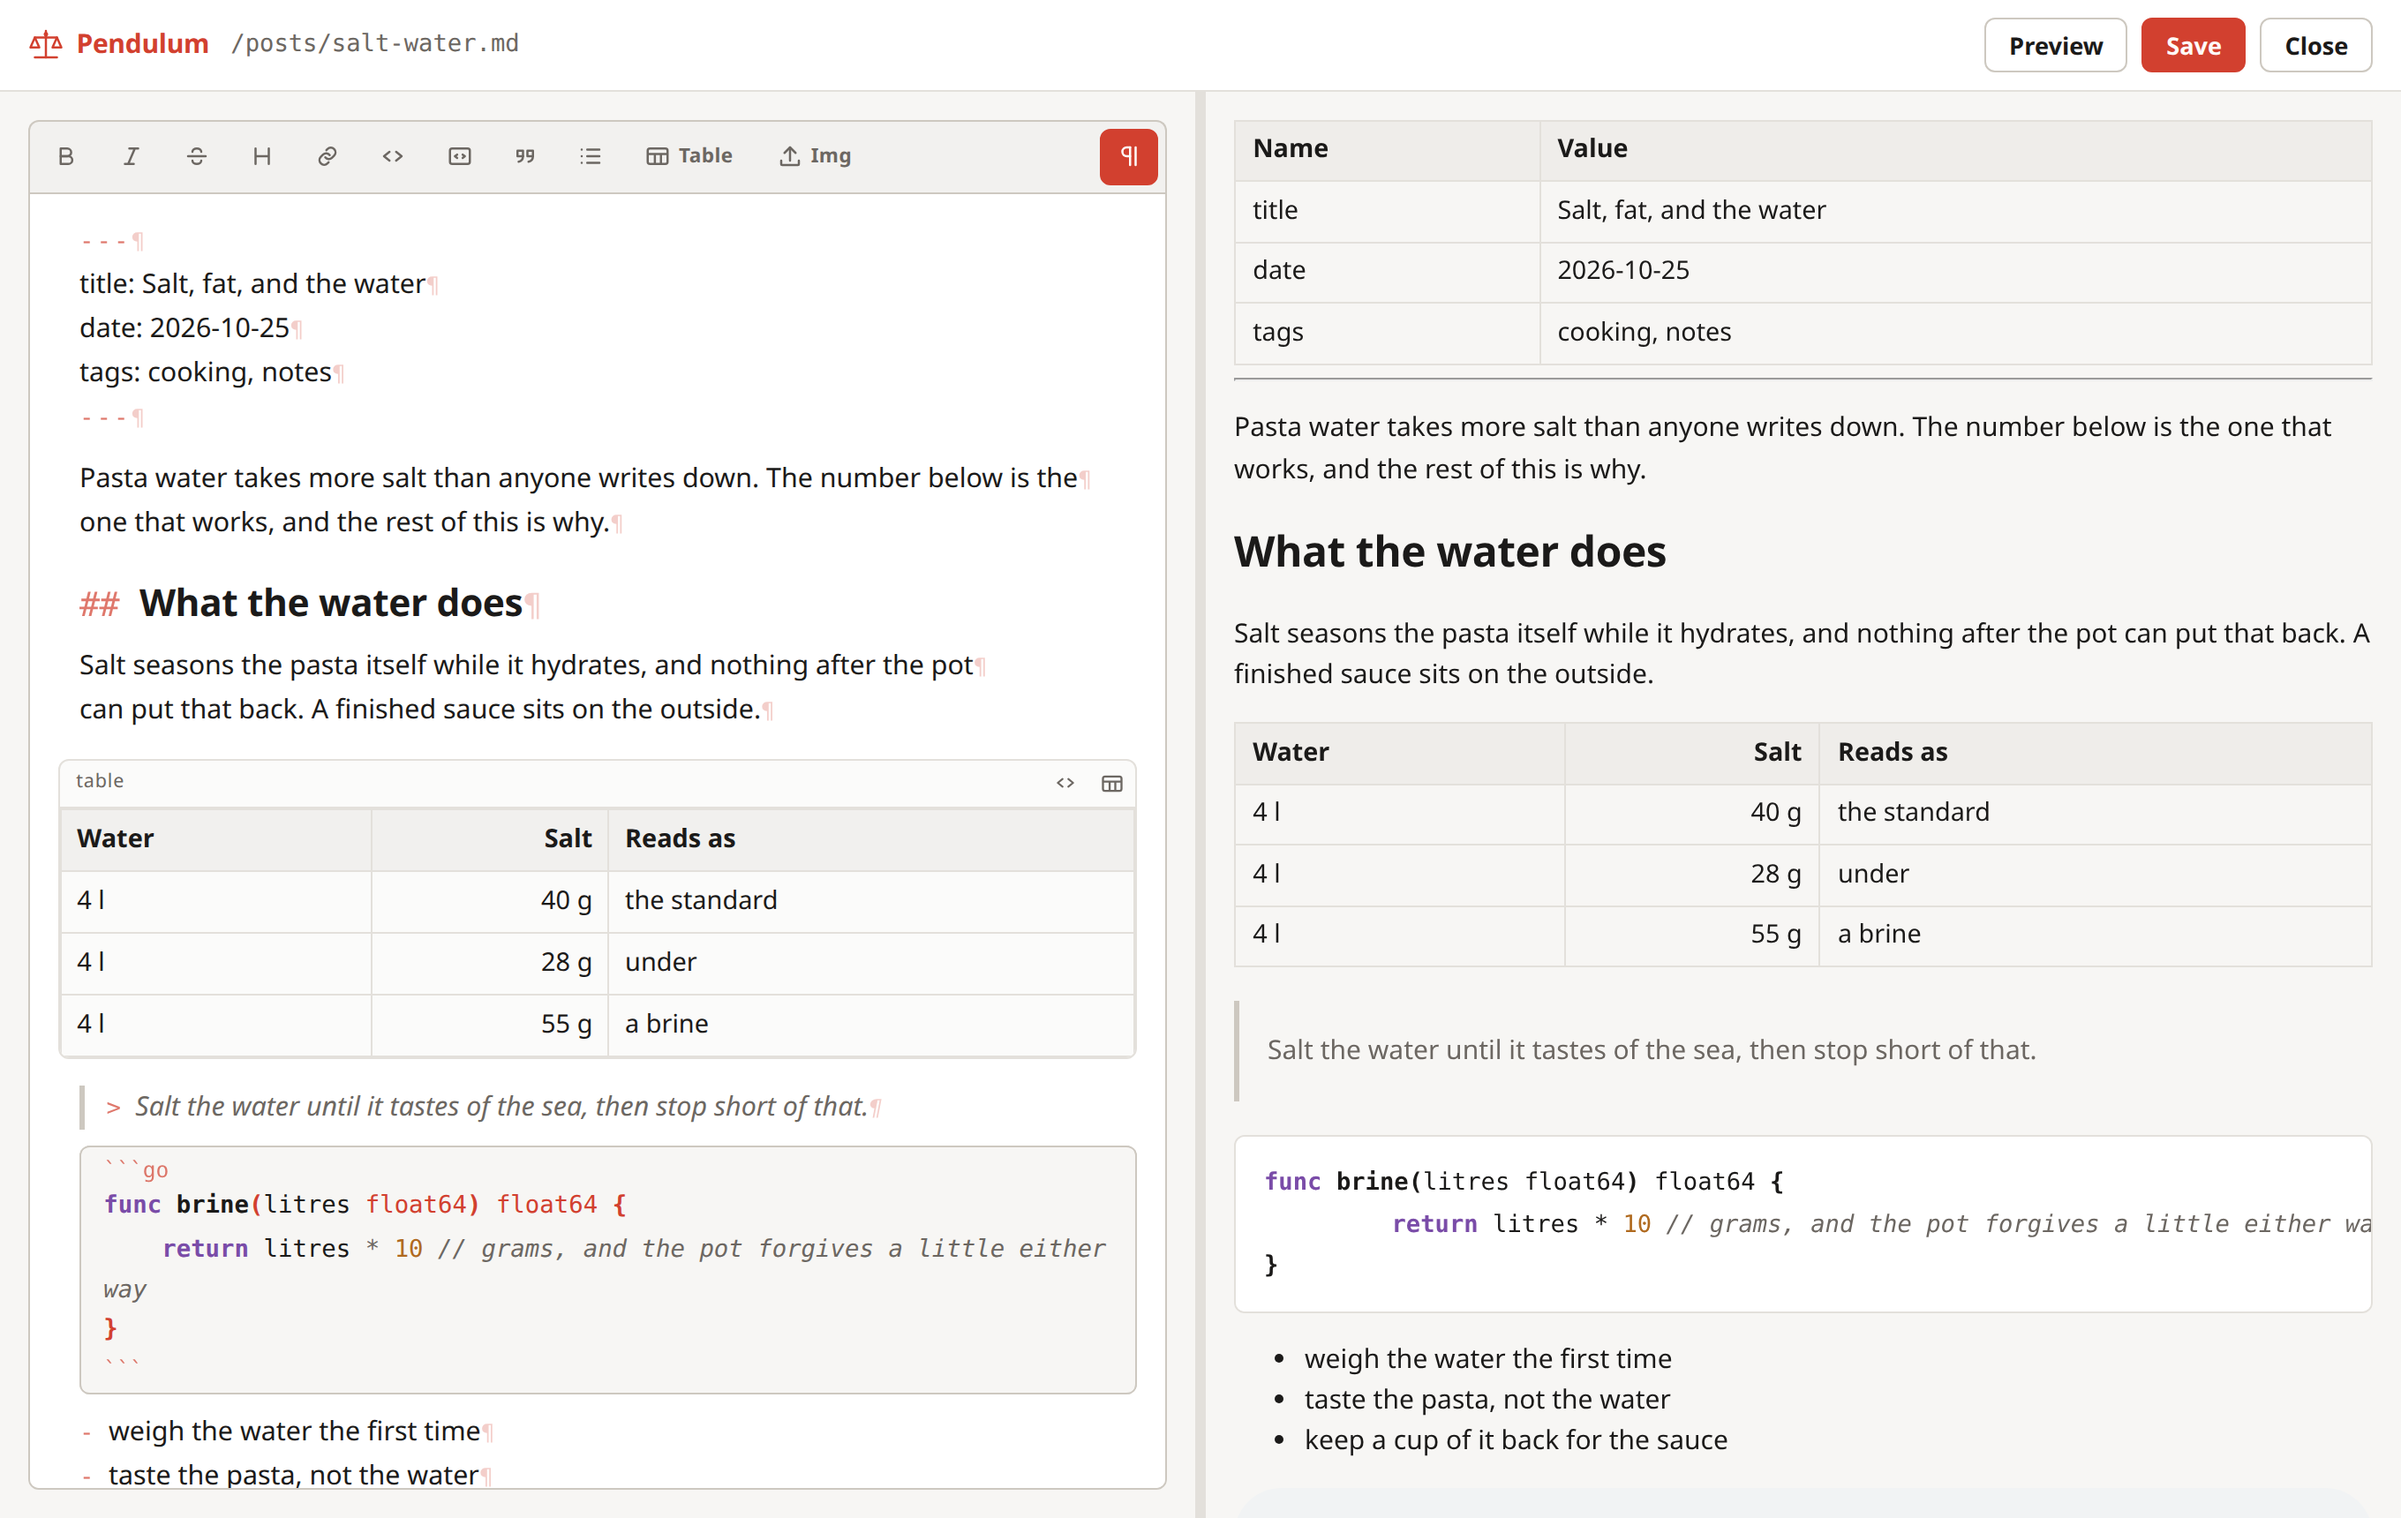
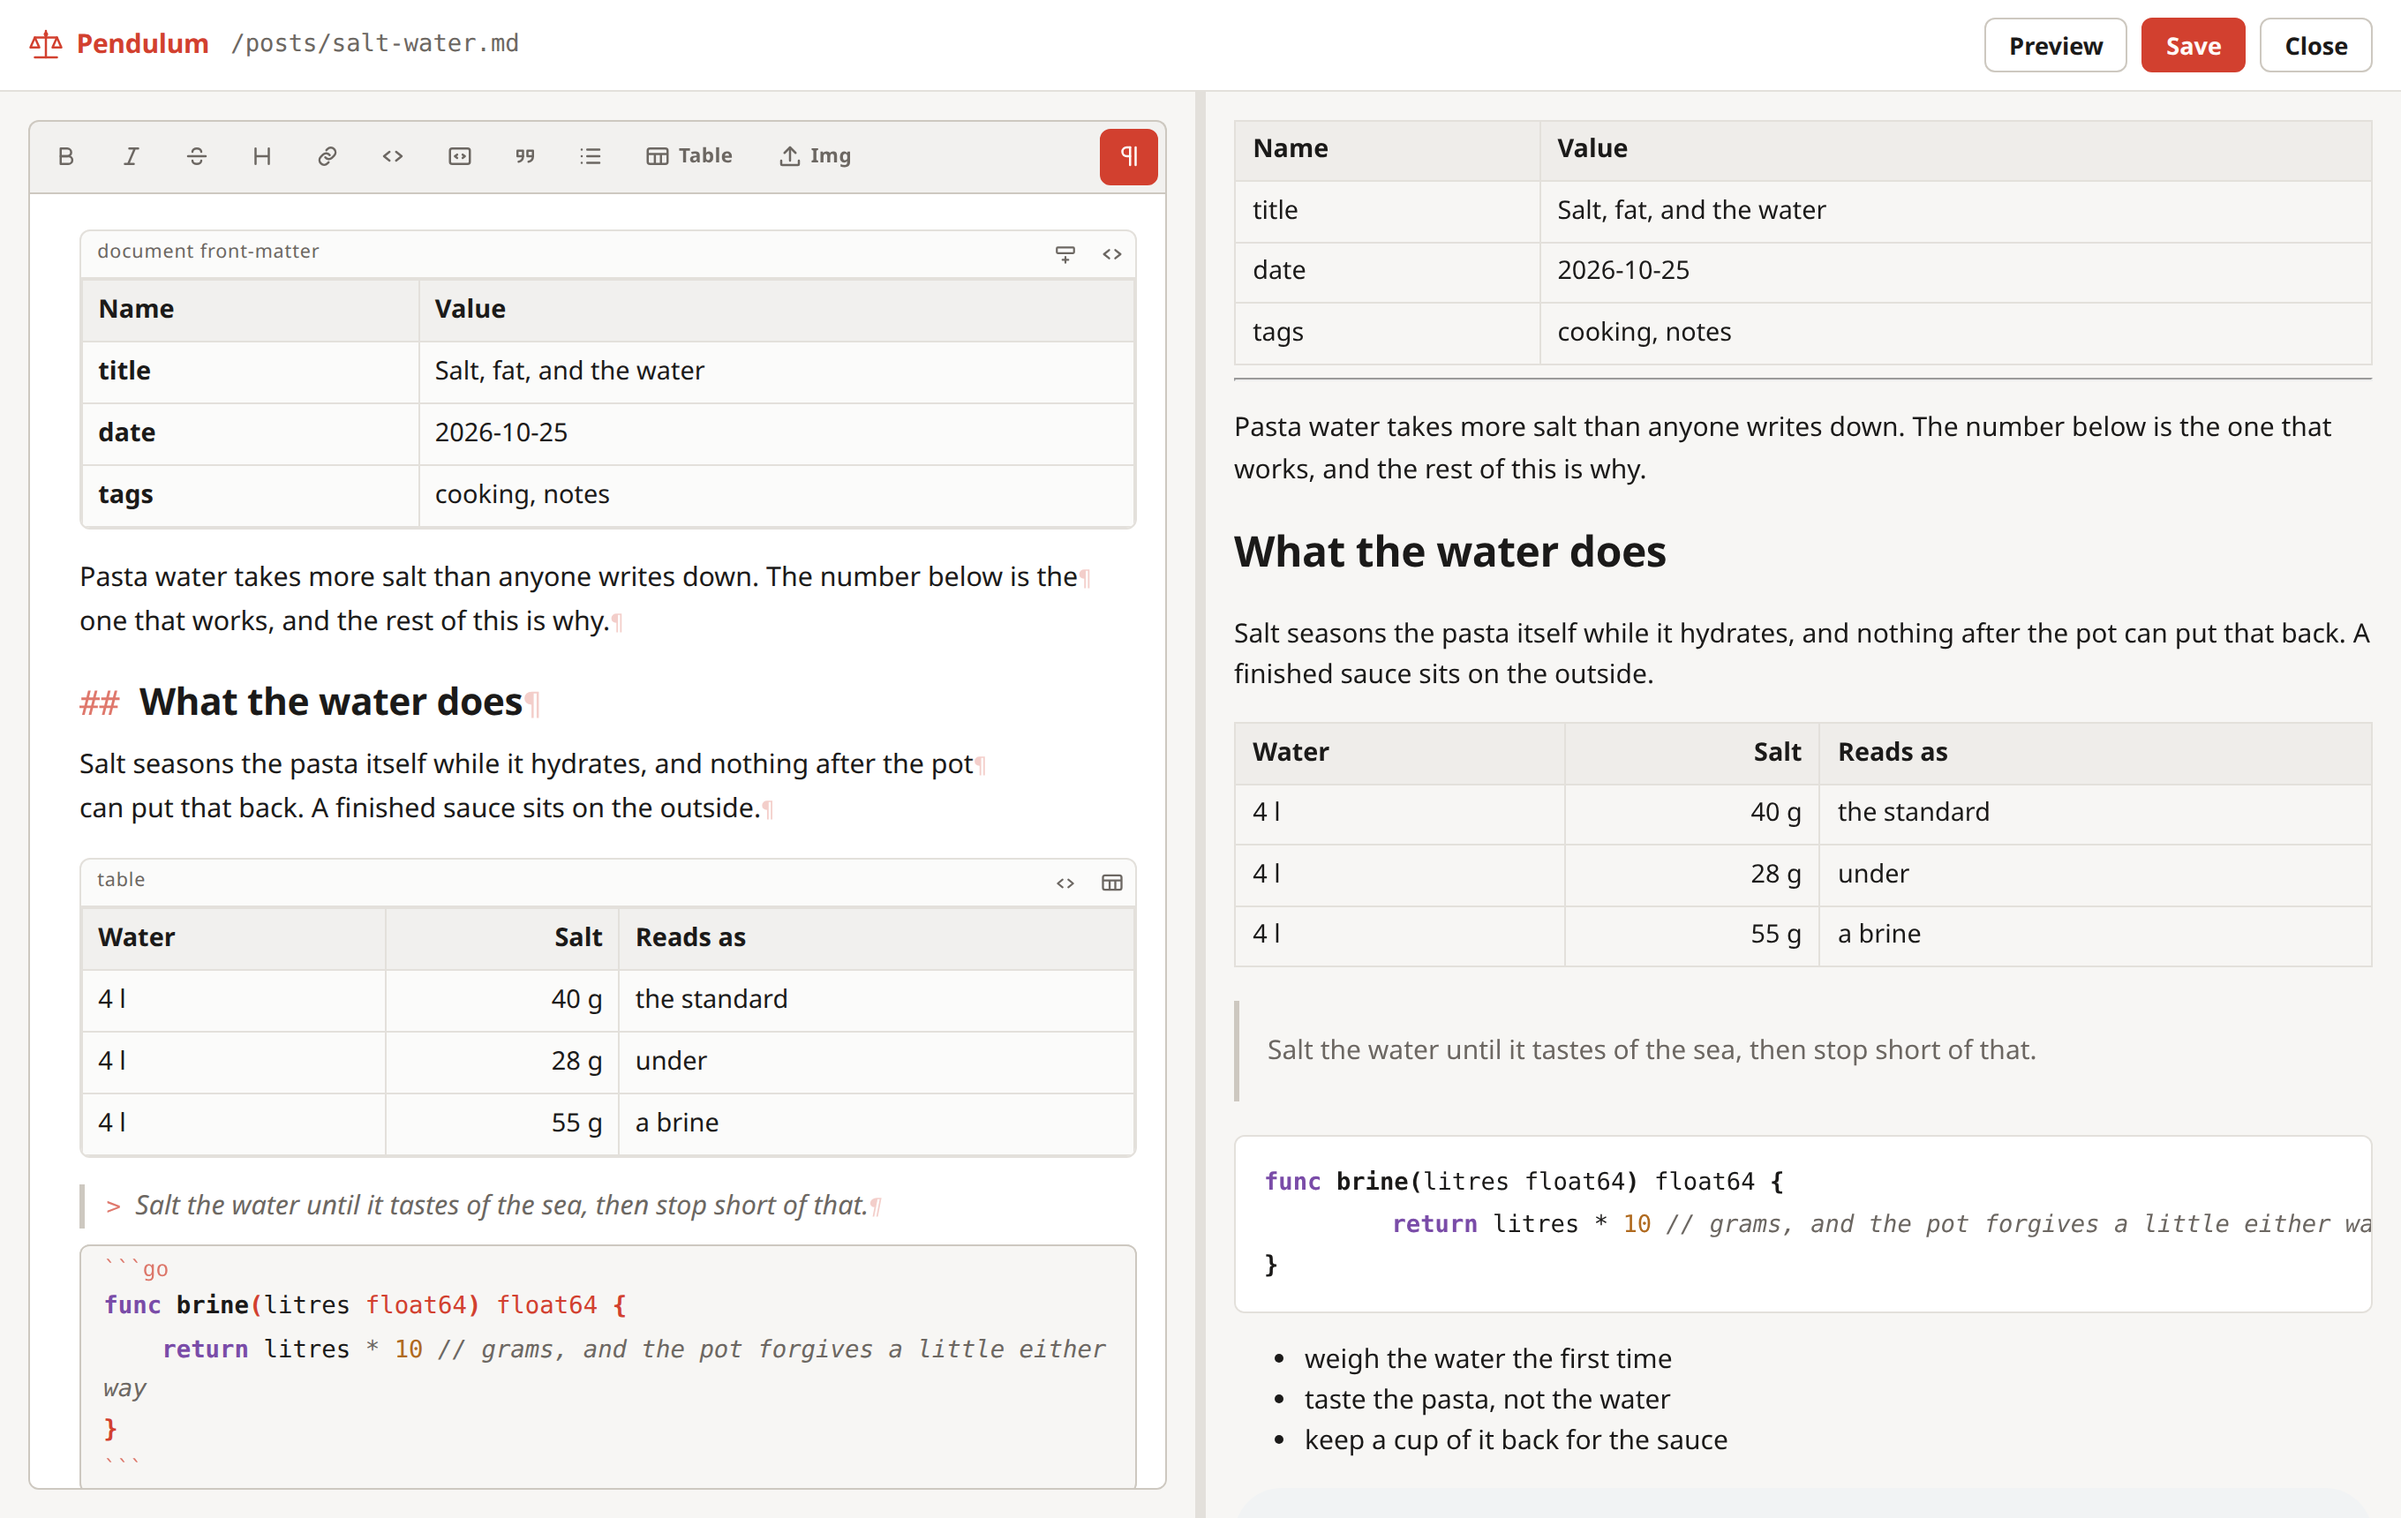
docs: show front matter fields in the lead screenshot

diff --git a/README.md b/README.md
@@ -33,7 +33,7 @@ The folder is also a bare argument, which is the shortest way to start: `pendulu
 
 ## Writing
 
-The editing surface is [mdedit](https://github.com/titpetric/mdedit): one surface that holds the markdown itself. Type `###` and the line reads at a heading's size from the third character on; a table draws as a table with editable cells, and an image draws the picture it points at. The pilcrow at the right of the toolbar shows or hides the marker characters, and the textarea the editor mounts over stays in the page, hidden, carrying the value for the form.
+The editing surface is [mdedit](https://github.com/titpetric/mdedit): one surface that holds the markdown itself. Type `###` and the line reads at a heading's size from the third character on; a table draws as a table with editable cells, and an image draws the picture it points at. A `---` block at the head of a file draws as an editable field table, the same fields the preview shows. The pilcrow at the right of the toolbar shows or hides the marker characters, and the textarea the editor mounts over stays in the page, hidden, carrying the value for the form.
 
 The pane beside it is the same document rendered by the server. The two show different things. The surface is the source, markers and all, in the characters a save writes. The pane is the page the folder publishes: goldmark, the conventions below, and a relative image resolved the way whatever publishes the folder resolves it.
 
